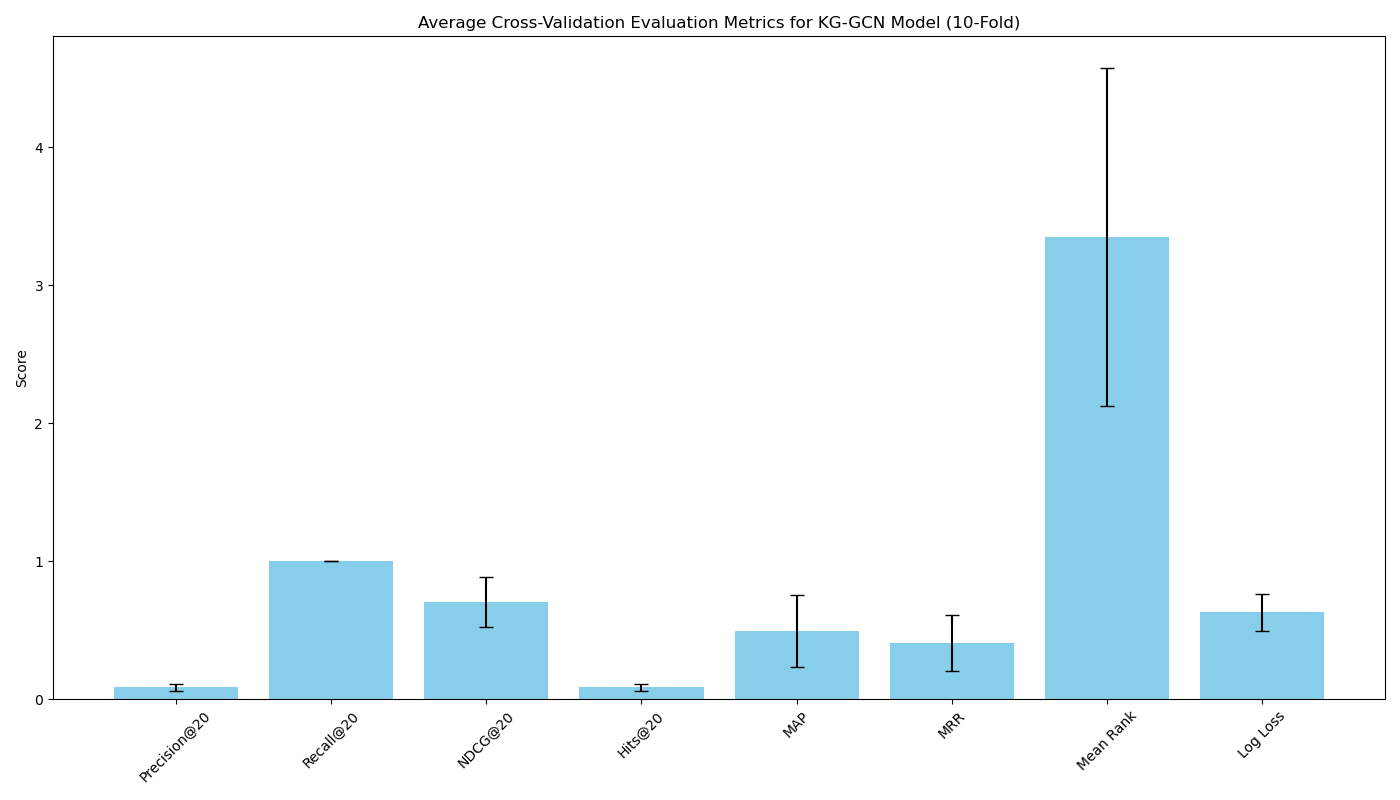
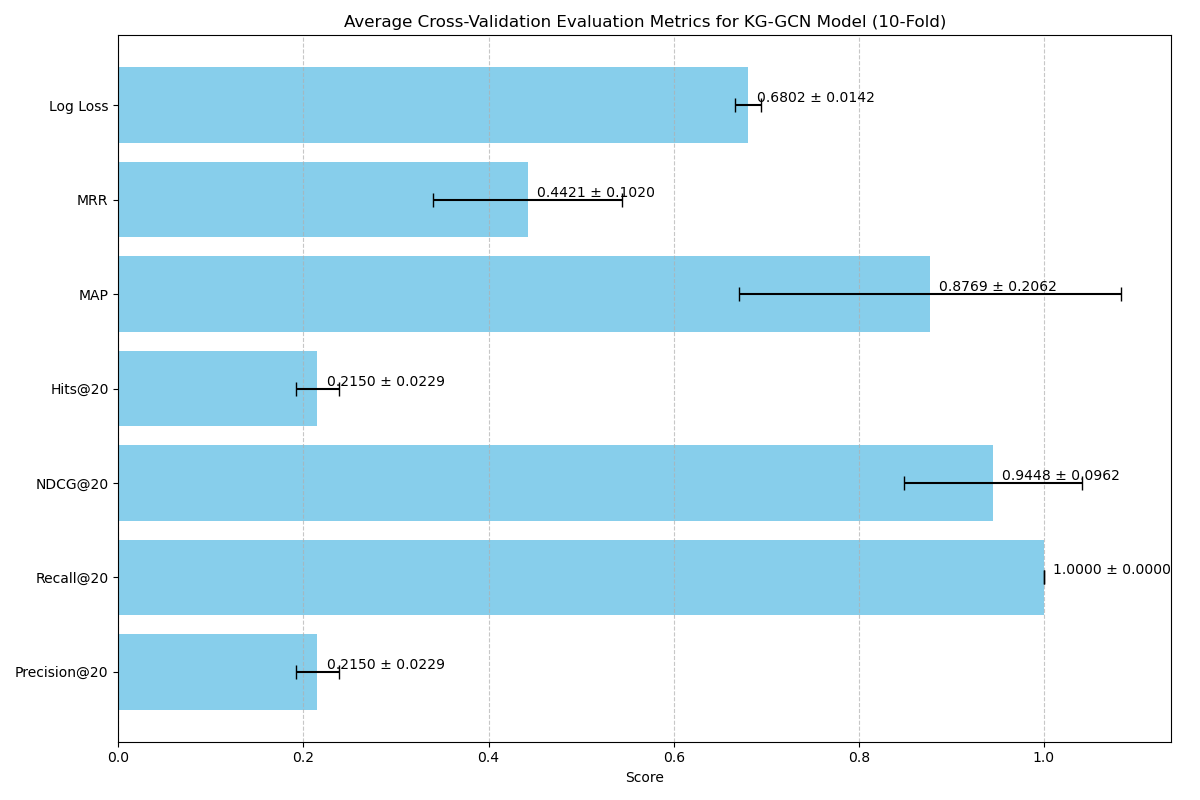
Optimize Model

diff --git a/Model/KG-GCN_evaluated.py b/Model/KG-GCN_evaluated.py
@@ -22,11 +22,13 @@ class SimpleGCN(torch.nn.Module):
         super(SimpleGCN, self).__init__()
         self.conv1 = GCNConv(in_channels, hidden_channels)
         self.conv2 = GCNConv(hidden_channels, 2)  # 2 classes: 0 and 1
+        self.dropout = torch.nn.Dropout(p=0.5)
 
     def forward(self, data):
         x, edge_index = data.x, data.edge_index
         x = self.conv1(x, edge_index)
         x = F.relu(x)
+        x = self.dropout(x)
         x = self.conv2(x, edge_index)
         return x
 
@@ -101,6 +103,8 @@ maps = []
 mean_ranks = []
 mrrs = []
 log_losses = []
+losses_per_fold = []  # To store training loss values per epoch for each fold
+val_losses_per_fold = []  # To store validation loss values per epoch for each fold
 k = 20
 
 for fold, (train_idx, test_idx) in enumerate(skf.split(range(len(nodes)), y.numpy())):
@@ -108,16 +112,30 @@ for fold, (train_idx, test_idx) in enumerate(skf.split(range(len(nodes)), y.nump
 
     # Create model for each fold
     model = SimpleGCN(in_channels=x.shape[1], hidden_channels=1)
-    optimizer = torch.optim.Adam(model.parameters(), lr=0.01)
+    optimizer = torch.optim.Adam(model.parameters(), lr=0.01, weight_decay=0.01)  # Added L2 regularization
 
     # Training loop
-    for epoch in range(100):
+    losses = []  # To store training loss for each epoch in this fold
+    val_losses = []  # To store validation loss for each epoch in this fold
+    for epoch in range(10):
         model.train()
         optimizer.zero_grad()
         out = model(data)
         loss = F.cross_entropy(out[train_idx], data.y[train_idx])
+        losses.append(loss.item())
         loss.backward()
         optimizer.step()
+
+        # Compute validation loss
+        model.eval()
+        with torch.no_grad():
+            val_out = model(data)
+            val_loss = F.cross_entropy(val_out[test_idx], data.y[test_idx])
+            val_losses.append(val_loss.item())
+        model.train()
+
+    losses_per_fold.append(losses)
+    val_losses_per_fold.append(val_losses)
 
     # Evaluation
     model.eval()
@@ -144,7 +162,7 @@ for fold, (train_idx, test_idx) in enumerate(skf.split(range(len(nodes)), y.nump
     hits_k_val = precision_k_val  # Hits@k is equivalent to Precision@k in this binary ranking context
     map_val = average_precision_score(y_true, y_score)
 
-    # Mean Rank, MRR, Log Loss
+    # MRR, Log Loss
     if np.sum(y_true) > 0:
         ranks = np.argsort(np.argsort(-y_score)) + 1  # Rank of each item (1-based)
         mean_rank_val = np.mean(ranks[y_true == 1])  # Mean rank for positive samples
@@ -185,7 +203,6 @@ avg_recall_k = np.mean(recalls_k)
 avg_ndcg_k = np.mean(ndcgs_k)
 avg_hits_k = np.mean(hits_k)
 avg_map = np.mean(maps)
-avg_mean_rank = np.mean(mean_ranks)
 avg_mrr = np.mean(mrrs)
 avg_log_loss = np.mean(log_losses)
 
@@ -197,12 +214,11 @@ print(f"Average Recall@{k}: {avg_recall_k:.4f} ± {np.std(recalls_k):.4f}")
 print(f"Average NDCG@{k}: {avg_ndcg_k:.4f} ± {np.std(ndcgs_k):.4f}")
 print(f"Average Hits@{k}: {avg_hits_k:.4f} ± {np.std(hits_k):.4f}")
 print(f"Average MAP: {avg_map:.4f} ± {np.std(maps):.4f}")
-print(f"Average Mean Rank: {avg_mean_rank:.4f} ± {np.std(mean_ranks):.4f}")
 print(f"Average MRR: {avg_mrr:.4f} ± {np.std(mrrs):.4f}")
 print(f"Average Log Loss: {avg_log_loss:.4f} ± {np.std(log_losses):.4f}")
 
 # Visualization per fold
-metrics = ['Precision@20', 'Recall@20', 'NDCG@20', 'Hits@20', 'MAP', 'MRR', 'Mean Rank', 'Log Loss']
+metrics = ['Precision@20', 'Recall@20', 'NDCG@20', 'Hits@20', 'MAP', 'Mean Rank', 'MRR', 'Log Loss']
 folds = list(range(1, 11))
 
 fig, axes = plt.subplots(2, 4, figsize=(20, 10))
@@ -219,10 +235,10 @@ for i, metric in enumerate(metrics):
         values = hits_k
     elif metric == 'MAP':
         values = maps
-    elif metric == 'MRR':
-        values = mrrs
     elif metric == 'Mean Rank':
         values = mean_ranks
+    elif metric == 'MRR':
+        values = mrrs
     elif metric == 'Log Loss':
         values = log_losses
 
@@ -236,17 +252,43 @@ plt.tight_layout()
 plt.savefig('evaluation_metrics_per_fold.png')
 plt.show()
 
-# Overall average bar plot
-metrics_avg = [f'Precision@{k}', f'Recall@{k}', f'NDCG@{k}', f'Hits@{k}', 'MAP', 'MRR', 'Mean Rank', 'Log Loss']
-averages = [avg_precision_k, avg_recall_k, avg_ndcg_k, avg_hits_k, avg_map, avg_mrr, avg_mean_rank, avg_log_loss]
-stds = [np.std(precisions_k), np.std(recalls_k), np.std(ndcgs_k), np.std(hits_k), np.std(maps), np.std(mrrs), np.std(mean_ranks), np.std(log_losses)]
+# Overall average horizontal bar plot for head-to-head comparison
+metrics_avg = [f'Precision@{k}', f'Recall@{k}', f'NDCG@{k}', f'Hits@{k}', 'MAP', 'MRR', 'Log Loss']
+averages = [avg_precision_k, avg_recall_k, avg_ndcg_k, avg_hits_k, avg_map,  avg_mrr, avg_log_loss]
+stds = [np.std(precisions_k), np.std(recalls_k), np.std(ndcgs_k), np.std(hits_k), np.std(maps), np.std(mrrs), np.std(log_losses)]
 
-plt.figure(figsize=(14, 8))
-plt.bar(metrics_avg, averages, yerr=stds, capsize=5, color='skyblue')
+plt.figure(figsize=(12, 8))
+bars = plt.barh(metrics_avg, averages, xerr=stds, capsize=5, color='skyblue', align='center')
 plt.title('Average Cross-Validation Evaluation Metrics for KG-GCN Model (10-Fold)')
-plt.ylabel('Score')
-plt.xticks(rotation=45)
+plt.xlabel('Score')
+plt.grid(axis='x', linestyle='--', alpha=0.7)
+
+# Add value labels on the bars
+for bar, avg, std in zip(bars, averages, stds):
+    plt.text(bar.get_width() + 0.01, bar.get_y() + bar.get_height()/2, f'{avg:.4f} ± {std:.4f}', va='bottom', fontsize=10)
+
 plt.tight_layout()
 plt.savefig('evaluation_metrics_average.png')
+plt.show()
+
+# Loss visualization: Training and Testing Loss per Fold
+epochs = list(range(1, 11))
+fig, axes = plt.subplots(5, 2, figsize=(15, 20))  # 5 rows, 2 columns for 10 folds
+axes = axes.flatten()
+
+for fold_idx in range(10):
+    ax = axes[fold_idx]
+    train_losses = losses_per_fold[fold_idx]
+    val_losses = val_losses_per_fold[fold_idx]
+    ax.plot(epochs, train_losses, label='Training Loss', color='blue')
+    ax.plot(epochs, val_losses, label='Validation Loss', color='red')
+    ax.set_title(f'Fold {fold_idx + 1}: Training vs Validation Loss')
+    ax.set_xlabel('Epoch')
+    ax.set_ylabel('Loss')
+    ax.legend()
+    ax.grid(True)
+
+plt.tight_layout()
+plt.savefig('loss_comparison_per_fold.png')
 plt.show()
 
